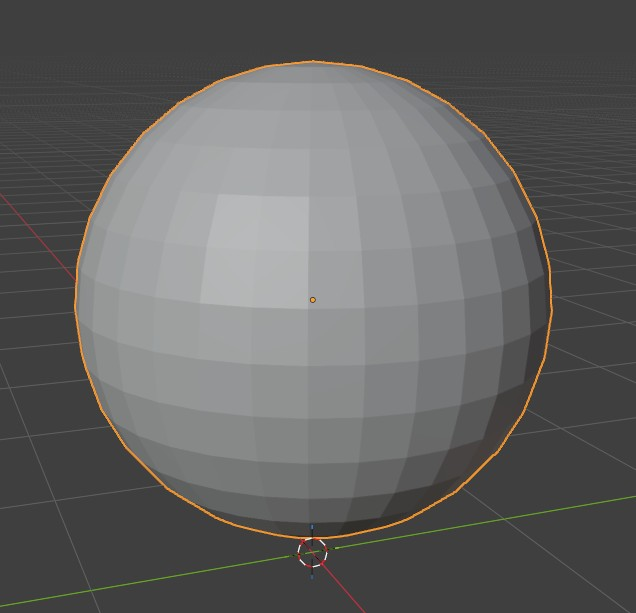
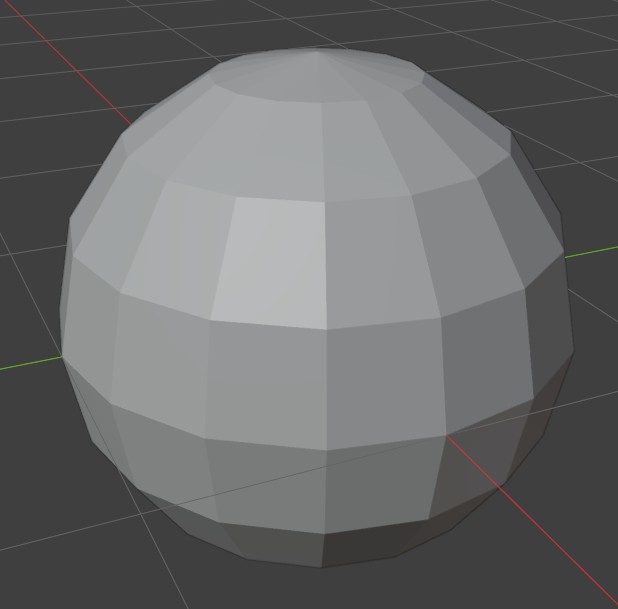
checked worksheet 2 and 3

diff --git a/week_2_more_modelling/README.md b/week_2_more_modelling/README.md
@@ -6,8 +6,7 @@ In this worksheet we will cover more advance modelling techniques and tools.
 
 This is a common modelling technique, you start with a primitive shape which most closely resembles your object and add gradually add more detail.
 
-
-
+![box modeled head](images/box_model.png)
 
 ## 2. Extrude, Edge loop, insert
 
@@ -15,23 +14,45 @@ In order to box model we may need to add more edges to our primitive meshes.
 
 We can do this in edit mode using the **loop cut**, **Extrude** and **insert** tools
 
-![](images/extrude_loop_insert.jpg)
+![extrude, insert and loop tool](images/extrude_loop_insert.jpg)
+
+- Create a new scene in Blender
+- Select the cube and enter edit mode (tab)
+- Select a face and extrude it using the extude tool
+- Select another face and insert it using the insert tool
+- use the loop cut tool to add an extra edge around the cube.
+
+This video can show you how to do this if you get stuck:
 
 [<img alt="video showing how to connect script to select event" src="images/video_1_extrude.jpg">](https://uwe.cloud.panopto.eu/Panopto/Pages/Viewer.aspx?id=b3fdbe26-84be-496b-a121-b47400f8983e)
 
+Tips:
+- The loop cut tool only works on 4 sided faces (quads)
+- Hold **shift** if you need more control.
+- Press **w** to quit out of a tool.
+
 ## 3. Bevel and knife
 
-The bevel and knife tools are also useful to add more detail, be careful you don't add too many segments when bevelling.
+The bevel and knife tools are also useful to add more detail.
 
 ![blender bevel and knife tool button](images/bevelandknife.jpg)
 
+- Try to add a bevel to one of the sides of your shape
+- Use the knife tool to cut extra edges into your shape
+
 [<img alt="video showing how to connect script to select event" src="images/video_2_bevel.jpg">](https://uwe.cloud.panopto.eu/Panopto/Pages/Viewer.aspx?id=91ef1d4a-4c73-4890-b58d-b47400fef358)
+
+Tips:
+- When using the knife tool, **right click** to start a new cut, and press **enter** to lock in your cuts.
+- Be careful you don't add too many segments when bevelling, check your triangle count.
 
 ## 4. Challenge 1 - make a crate
 
-Try to make a classic crate using the tools you have learnt today, you can include cross bars
+Try to make a classic crate using the tools you have learnt today, you can include cross bars.
 
 ![image of 3d modeled crate](images/crate.jpg)
+
+Start with a new cube primitive.
 
 There is more than one way to do this, but try it yourself before looking at my solution.
 
@@ -44,21 +65,32 @@ If you object is made from multiple parts it can be helpful to group them togeth
 - To parent an object to another press **ctrl + p**
 - To add objects to a new Collection press **m**
 
+You can also use the collection button at the top of the outliner
+
+![create collection](images/create-collection.jpg)
+
+- Create 3 spheres and try to group them together in a collection.
+
+This video may help if you get stuck:
+
 [<img alt="parenting and collections" src="images/video_9_parent.jpg">](https://uwe.cloud.panopto.eu/Panopto/Pages/Viewer.aspx?id=285da0f8-c656-4fae-a9f9-b48a0112997b)
 
 ## 6. Origin
 
 It can be very helpful to change where the rotation point of a object is.
 
-you can do this using the origin only option
+You can do this using the origin only option in the top right
 
 ![Affect only options with Origin selected](images/origin.jpg)
 
+- Add a hat to your snowman and change the rotation point.
+
+This video can show you how if you get stuck:
 [<img alt="change the origin point video" src="images/video_8_origin.jpg">](https://uwe.cloud.panopto.eu/Panopto/Pages/Viewer.aspx?id=09255292-8b1e-4b8c-b535-b48a01174244)
 
-## 7. Challenge 2 - make a lid for the box
+## 7. Challenge 2 - Make a lid for the box
 
-Create a simple lid for the crate, move the orign of the lid so that it is where the hinge should be
+Create a simple lid for the crate, move the origin of the lid so that it is where the hinge should be.
 
 Group the lid and crate so that the lid is a child of the crate.
 
@@ -66,13 +98,15 @@ Try to do this yourself before looking at my solution bellow
 
 [<img alt="make a lid for the box video" src="images/video_lid.jpg">](https://uwe.cloud.panopto.eu/Panopto/Pages/Viewer.aspx?id=37374a9a-f0b6-4f16-82fc-b48a011e6f01)
 
+This technique can be very useful for adding arms to a character and moving the rotation point to the shoulder.
+
 ## 8. Modifiers
 
 If our object is symmetrical or repeated the mirror and array tools can speed up our workflow
 
 ### Mirror modifier
 
-![](images/mirror.jpg)
+![mirror modifier](images/mirror.jpg)
 
 Mirroring is best done if your object is directly on the origin (the center of the scene).
 
@@ -86,7 +120,7 @@ Select the correct axis.
 
 ### Array
 
-![](images/array.jpg)
+![array modifier](images/array.jpg)
 
 Arrays are useful if you want to repeat your object in a pattern.
 
@@ -96,7 +130,6 @@ Arrays are useful if you want to repeat your object in a pattern.
 
 [<img alt="video showing how to connect script to select event" src="images/video_4_mirror.jpg">](https://uwe.cloud.panopto.eu/Panopto/Pages/Viewer.aspx?id=4dcfc841-7e67-42f7-9a65-b4740105ffb0)
 
-
 ## 9. Join and fill
 
 When making more complex models, it can be useful to be able to fill in holes and join with other meshes.
@@ -104,13 +137,11 @@ When making more complex models, it can be useful to be able to fill in holes an
 Press **f** to fill
 Press **J** to create and edge between vertexes
 
-[<img alt="video showing how to connect script to select event" src="images/video_3_slide.jpg">](https://uwe.cloud.panopto.eu/Panopto/Pages/Viewer.aspx?id=504d2214-ac0b-43a0-bd76-b4740102871d)
-
+[<img alt="video showing how to connect script to select event" src="images/video_join_fill.jpg">](https://uwe.cloud.panopto.eu/Panopto/Pages/Viewer.aspx?id=ace60b28-2a3b-4300-a057-b47500f63d8c)
 
 ## 10. Extra Challenge
 
-If you have quickly made your way thought this worksheet, as an extra challenge
-Try to model a simple low poly vehicle using the techniques you have learnt
+If you have quickly made your way thought this worksheet, for some extra practice and as an extra challenge try to model a simple low poly vehicle using the techniques you have learnt.
 
 ![Image of a jeep](images/jeep.png)
 
@@ -123,7 +154,13 @@ Use the following techniques
 
 Here is my solution, yours will be different.
 
-![](images/finished_jeep.jpg)
+![finished jeep model](images/finished_jeep.jpg)
 
+[<img alt="video showing how to connect script to select event" src="images/video_6_challenge_1.jpg">](https://uwe.cloud.panopto.eu/Panopto/Pages/Viewer.aspx?id=89ddb0eb-f7ee-4ffe-b071-b47500b2cb1a)
 
+Tips:
+To add a reference image, place it in the same folder as your blender file then drag it into the viewport.
 
+### References
+
+[box modeling image](https://osmanassem.com/3d-modeling-an-overview-on-various-techniques/)

diff --git a/week_3_organic_painting/README.md b/week_3_organic_painting/README.md
@@ -1,27 +1,32 @@
 # Organic objects and texture painting
 
-In this worksheet we will look at modeling more organic objects from an image reference, and applying more complex textures.
-
-Follow along practice using Blender by creating a  n organic object and texturing it.
+In this worksheet we will look at modeling more organic objects from an image reference and applying more complex textures.
 
 ## 1. Soft edges
 
 By default, all edges in Blender are sharp, this makes curved shapes look very faceted.
 
-![](images/facets.jpg)
+![faceted sphere](images/facets.jpg)
 
 One way to make them look more smooth is by adding more edges
 
-![](images/more_detail.jpg)
+![detailed sphere](images/more_detail.jpg)
 
 But this can increase the polygon count considerably.
 
 A better solution is to mark the edges as smooth or sharp
 
+- Create a new UV sphere primitive.
 - Hold down **Right click**
 - Choose **Shade Auto smooth**
 
+![Autoshade](images/autoshade.jpg)
+
 You can also smooth or sharpen individual edges.
+
+- In Edit mode, select and edge
+- Right click and choose **Mark sharp**
+- To clear the sharp edges, right click and choose **clear sharp**
 
 This video shows you this in more detail:
 
@@ -29,12 +34,12 @@ This video shows you this in more detail:
 
 ## 2. Randomise
 
-Organic objects are never perfect, you can make objects look more real by randomising the vertexes a little.
+Organic objects are never perfect, you can make objects look more organic by randomising the vertexes a little.
 
-- In **Edit mode** Select the vertexes
+- In **Edit mode** Select the vertexes (hotkey 1), press **a** to select them all.
 - On the top menu choose **Mesh > Transform > randomise**
 
-![randomis menu in blender](images/randomise.jpg)
+![randomise menu in blender](images/randomise.jpg)
 
 This video will show you how to do this in more detail :
 
@@ -47,6 +52,10 @@ If you want to move edges along your shape, you can double tap **g** to edge sli
 turn on the merge option to merge vertexes that are on top of each other.
 
 ![merge vertexes in blender](images/merge.jpg)
+
+- In edit mode, select a loop of edges
+- turn on merge
+- press **g** **g** to edge slide the loop and merge it with the next one.
 
 Watch this video to see this in action:
 
@@ -62,11 +71,19 @@ This video show you how to do this in practice:
 
 [<img alt="video showing how to connect script to select event" src="images/video-image_reference.jpg">](https://uwe.cloud.panopto.eu/Panopto/Pages/Viewer.aspx?id=44103c40-4722-45b5-8cea-b49800a14103)
 
+Here is the banana image I use in the video for you to download.
+
+Tip:
+Make sure the image reference is saved next to your blender file so you don't loose it.
+
+![banana image](images/banana.jpg)
+
 ## 4. Model an organic object
 
 We can now try to model a low poly Banana
 
-- Start with a new cylinder with 8 Sides.
+- Import the banana image into Blender.
+- Start with a new cylinder with 8 Vertices.
 
 ![add new cylinder](images/make_cylinder.jpg)
 
@@ -118,6 +135,9 @@ To see this in more detail, or if you get lost you can watch this video:
 
 [<img alt="video showing how to smart uv unwrap" src="images/video-automatic-unwrap.jpg">](https://uwe.cloud.panopto.eu/Panopto/Pages/Viewer.aspx?id=58c4db8f-87b1-4c9c-80af-b49800abab35)
 
+Tips:
+- You must be in edit mode to see the uv menu
+
 Next week we will go into uv unwrapping in more detail
 
 ## 6. Texture painting
@@ -128,7 +148,7 @@ Its a good idea to have a reference you can use for inspiration
 
 ![spotty banana reference image](images/Spotted_banana.jpg)
 
-- Open the texture painting workspace
+- Open the texture painting workspace at the top of your screen.
 
 ![texture painting tab](images/texture_painting_tab.jpg)
 
@@ -160,7 +180,7 @@ You can now start painting on your banana.
 
 ![choose colour box](images/choose_colour.jpg)
 
-- flood fill the image to make it all yellow
+- Flood fill the image to make it all yellow
 
 ![flood fill tool](images/flood_fill.jpg)
 
@@ -188,8 +208,10 @@ Please watch this video if you get stuck or would like to go over texture painti
 
 ## 7. Extra Challenge - Create another fruit.
 
-If you would like more practice, find image references for another fruit and try to model and   texture paint it.
+If you would like more practice, find image references for another fruit and try to model and texture paint it.
 
+![apply image](images/apple.jpg)
+[apply varieties](https://waapple.org/varieties/)
 
 
 

diff --git a/index.md b/index.md
@@ -10,3 +10,5 @@
 
 Blackboard Site
 [https://blackboard.uwe.ac.uk/](https://blackboard.uwe.ac.uk/)
+
+[Back to index](../)
